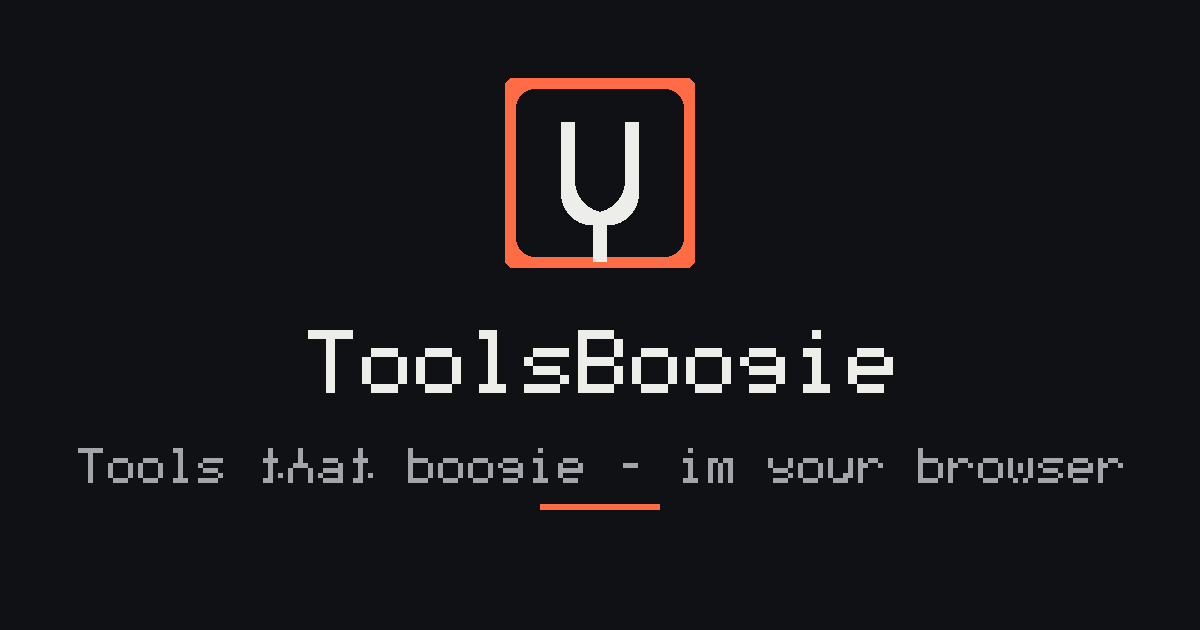
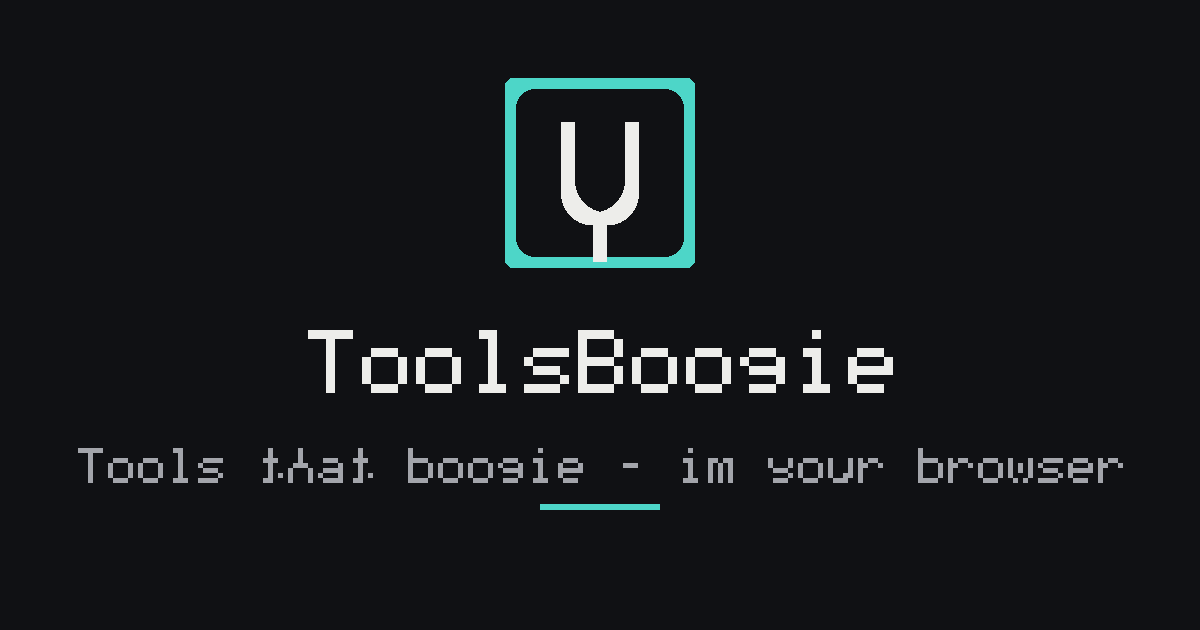
Theme: replace rust orange primary with teal (contrast-checked on both themes)
- Light: #0b7285 (5.3:1 on paper) / hover #0a5f6b / white ink
- Dark:  #4dd6c8 (10.6:1 on dark bg) / hover #6ee0d4 / ink #04211d
- Rest of the palette (warm paper neutrals, ink, lines) unchanged
- Updated: tokens.css, WebGPU shader accent vecs (compass/level),
  level 2D fallback, favicon, manifest, theme-color meta, OG image,
  404 page (light + dark button variants)

Changed region(s): [[0.4008, 0.1206, 0.5858, 0.4524], [0.4317, 0.7841, 0.555, 0.8143]]

diff --git a/src/lib/gpu.ts b/src/lib/gpu.ts
@@ -121,7 +121,7 @@ fn fs_main(@builtin(position) pos: vec4<f32>) -> loc0: vec4<f32> {
   let face = mix(vec3<f32>(0.98, 0.98, 0.97), vec3<f32>(0.09, 0.095, 0.11), u.theme);
   let ink  = mix(vec3<f32>(0.16, 0.15, 0.13), vec3<f32>(0.92, 0.92, 0.90), u.theme);
   let line = mix(vec3<f32>(0.72, 0.70, 0.63), vec3<f32>(0.30, 0.30, 0.33), u.theme);
-  let accent = mix(vec3<f32>(0.78, 0.27, 0.12), vec3<f32>(1.0, 0.42, 0.27), u.theme);
+  let accent = mix(vec3<f32>(0.043, 0.447, 0.522), vec3<f32>(0.302, 0.839, 0.784), u.theme);
 
   var color = face;
   var alpha = 0.0;
@@ -255,7 +255,7 @@ fn fs_main(@builtin(position) pos: vec4<f32>) -> loc0: vec4<f32> {
   let face = mix(vec3<f32>(0.98, 0.98, 0.97), vec3<f32>(0.09, 0.095, 0.11), u.theme);
   let ink  = mix(vec3<f32>(0.16, 0.15, 0.13), vec3<f32>(0.92, 0.92, 0.90), u.theme);
   let line = mix(vec3<f32>(0.78, 0.76, 0.70), vec3<f32>(0.26, 0.26, 0.29), u.theme);
-  let accent = mix(vec3<f32>(0.78, 0.27, 0.12), vec3<f32>(1.0, 0.42, 0.27), u.theme);
+  let accent = mix(vec3<f32>(0.043, 0.447, 0.522), vec3<f32>(0.302, 0.839, 0.784), u.theme);
   let ok = mix(vec3<f32>(0.12, 0.48, 0.30), vec3<f32>(0.30, 0.76, 0.54), u.theme);
 
   var color = face;

diff --git a/src/styles/tokens.css b/src/styles/tokens.css
@@ -27,11 +27,11 @@
   --line: #e2dfd6;
   --line-strong: #c8c4b6;
 
-  /* Brand */
-  --accent: #c8451f;
-  --accent-hover: #b03c19;
+  /* Brand (teal — the rust complement; contrast-checked on both themes) */
+  --accent: #0b7285;
+  --accent-hover: #0a5f6b;
   --accent-ink: #fff;
-  --accent-soft: rgba(200, 69, 31, 0.08);
+  --accent-soft: rgba(11, 114, 133, 0.08);
 
   /* Semantic */
   --ok: #1f7a4d;
@@ -71,10 +71,10 @@
     --line: #26272c;
     --line-strong: #3b3c42;
 
-    --accent: #ff6b45;
-    --accent-hover: #ff7f5c;
-    --accent-ink: #1c0d07;
-    --accent-soft: rgba(255, 107, 69, 0.12);
+    --accent: #4dd6c8;
+    --accent-hover: #6ee0d4;
+    --accent-ink: #04211d;
+    --accent-soft: rgba(77, 214, 200, 0.12);
 
     --ok: #4cc38a;
     --ok-soft: rgba(76, 195, 138, 0.12);

diff --git a/src/document.tsx b/src/document.tsx
@@ -79,7 +79,7 @@ export function Document(props: DocumentComponentProps) {
         <meta name="twitter:card" content="summary" />
         <link rel="icon" href={`${base}favicon.svg`} type="image/svg+xml" />
         <link rel="manifest" href={`${base}manifest.webmanifest`} />
-        <meta name="theme-color" content="#c8451f" />
+        <meta name="theme-color" content="#0b7285" />
         {props.assets}
       </head>
       <body>

diff --git a/src/routes/level.tsx b/src/routes/level.tsx
@@ -104,7 +104,7 @@ export default function LevelPage() {
     const line = dark ? '#33343a' : '#d8d5cc';
     const ink = dark ? '#e4e2da' : '#34322c';
     const ok = dark ? '#4cc286' : '#1f7a4d';
-    const accent = dark ? '#ff6a44' : '#c8451f';
+    const accent = dark ? '#4dd6c8' : '#0b7285';
 
     g.clearRect(0, 0, size, size);
     g.beginPath();
